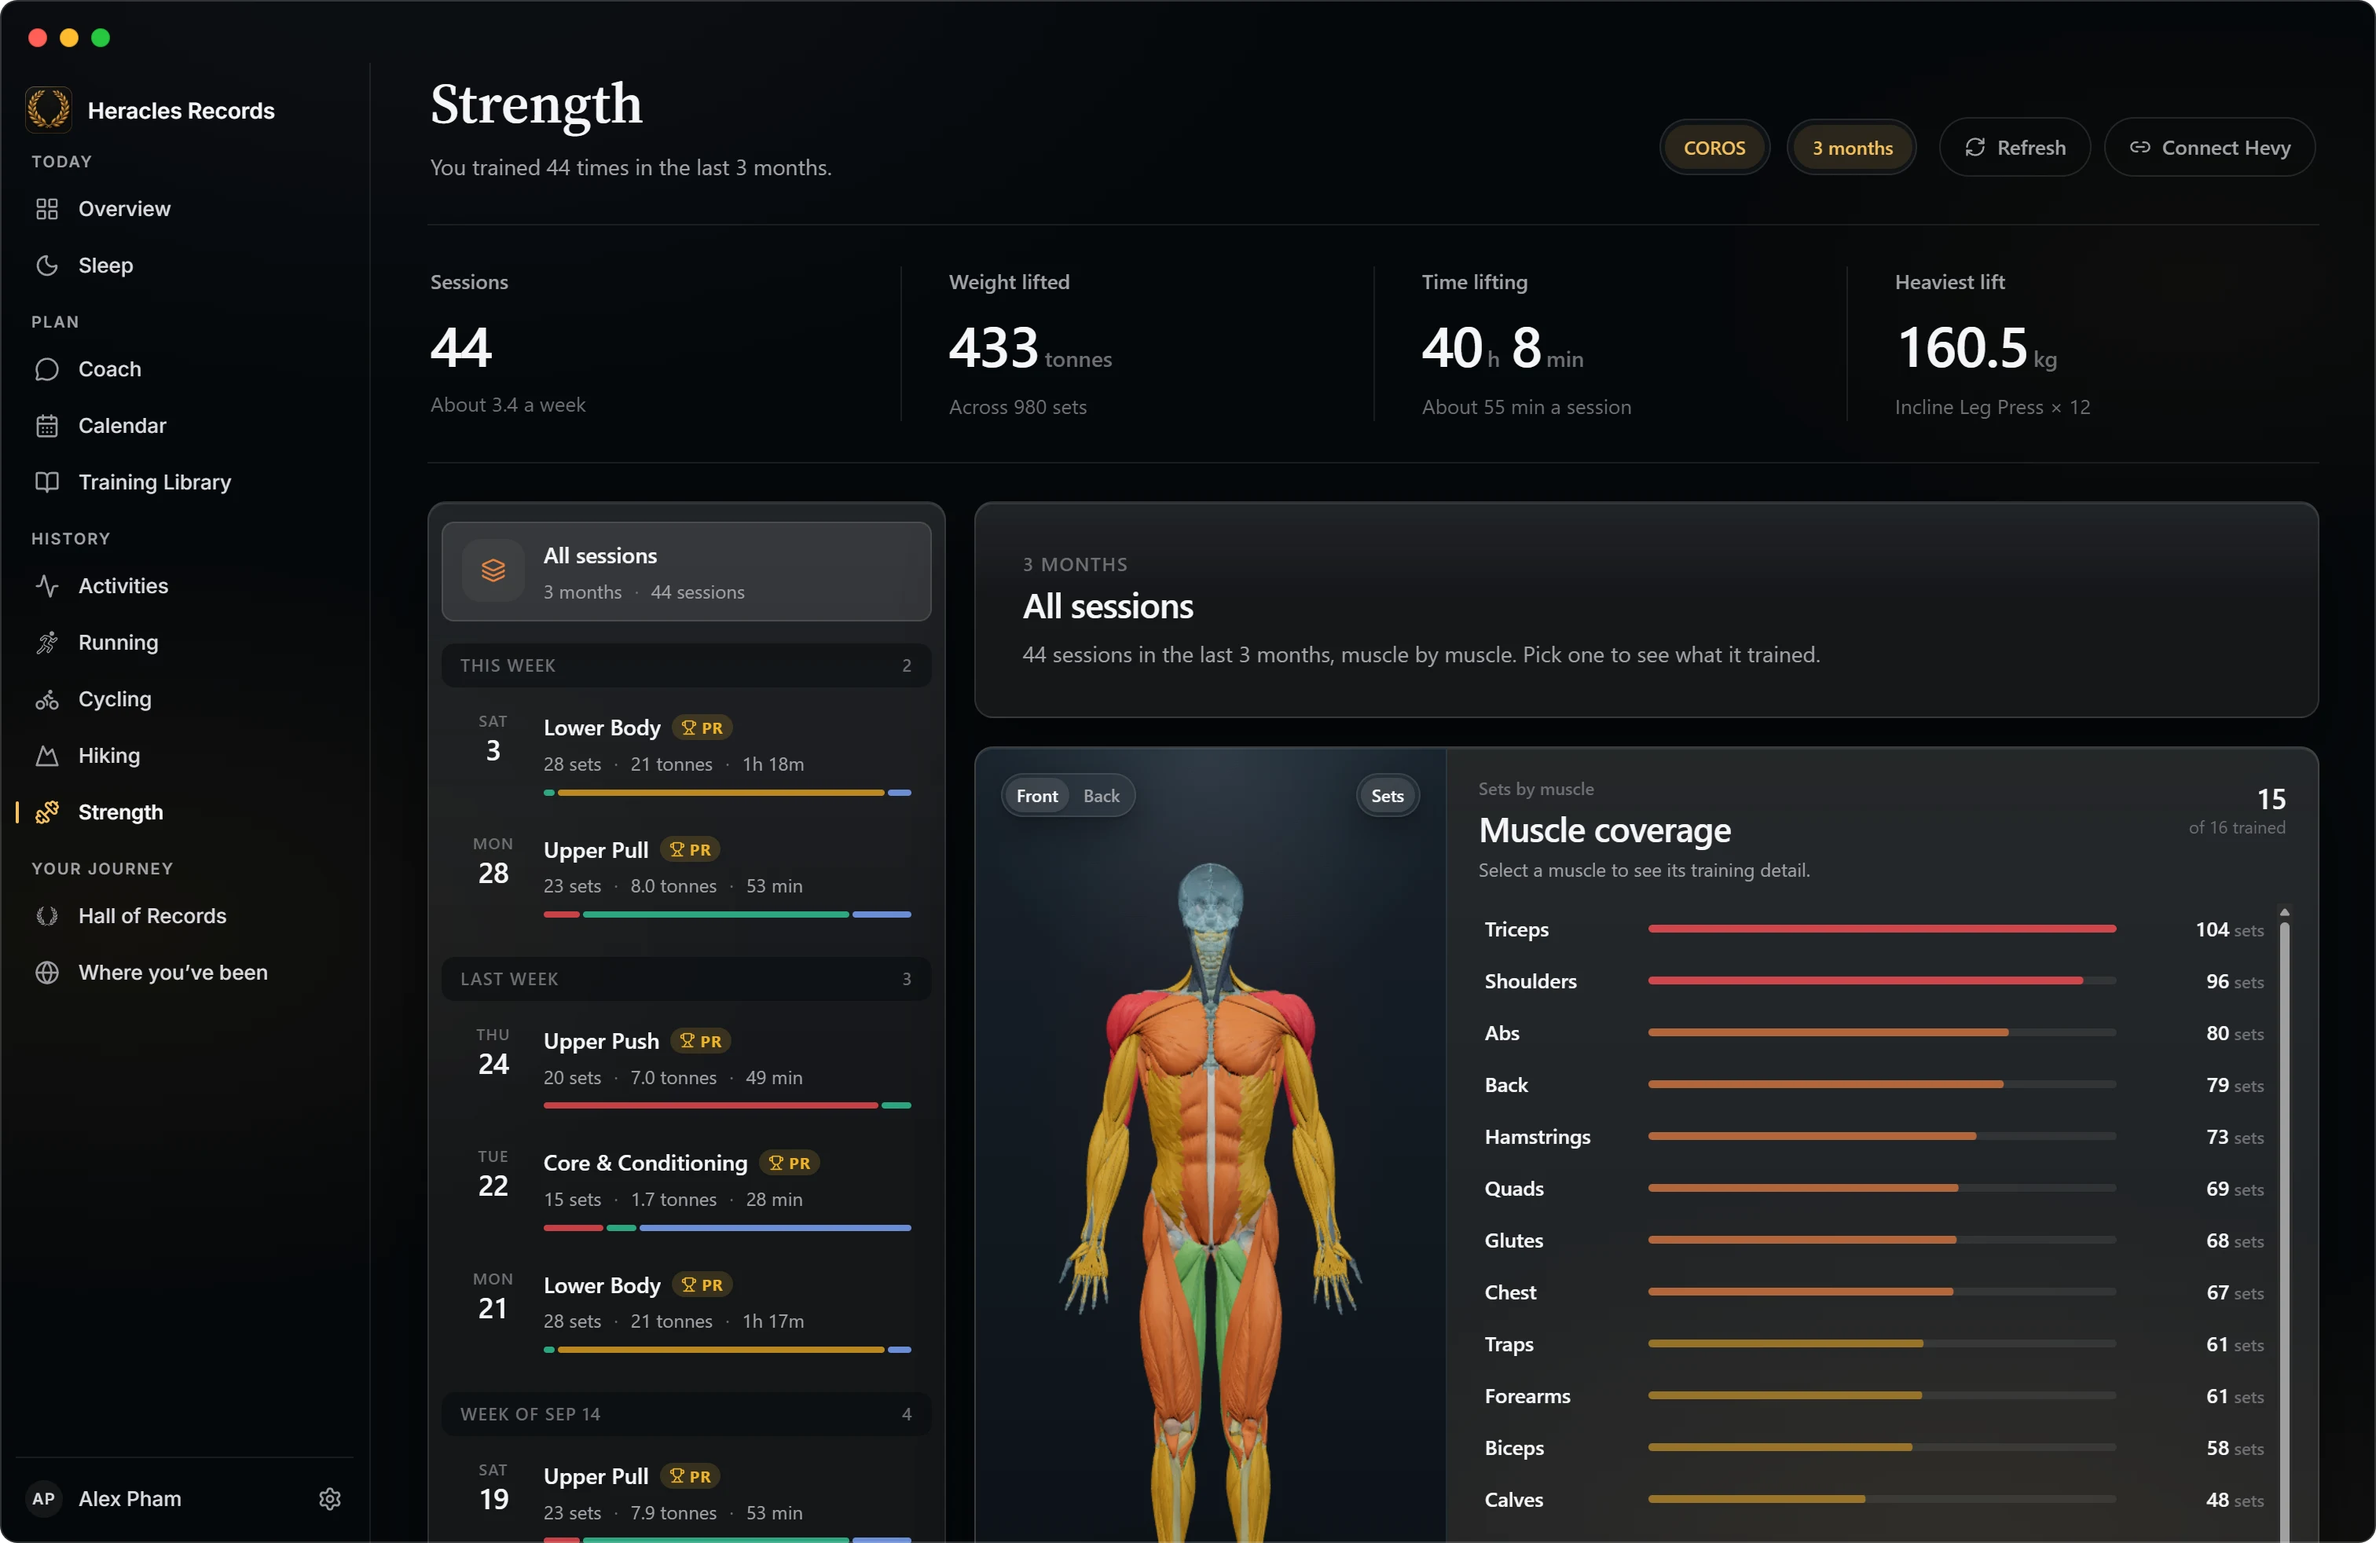
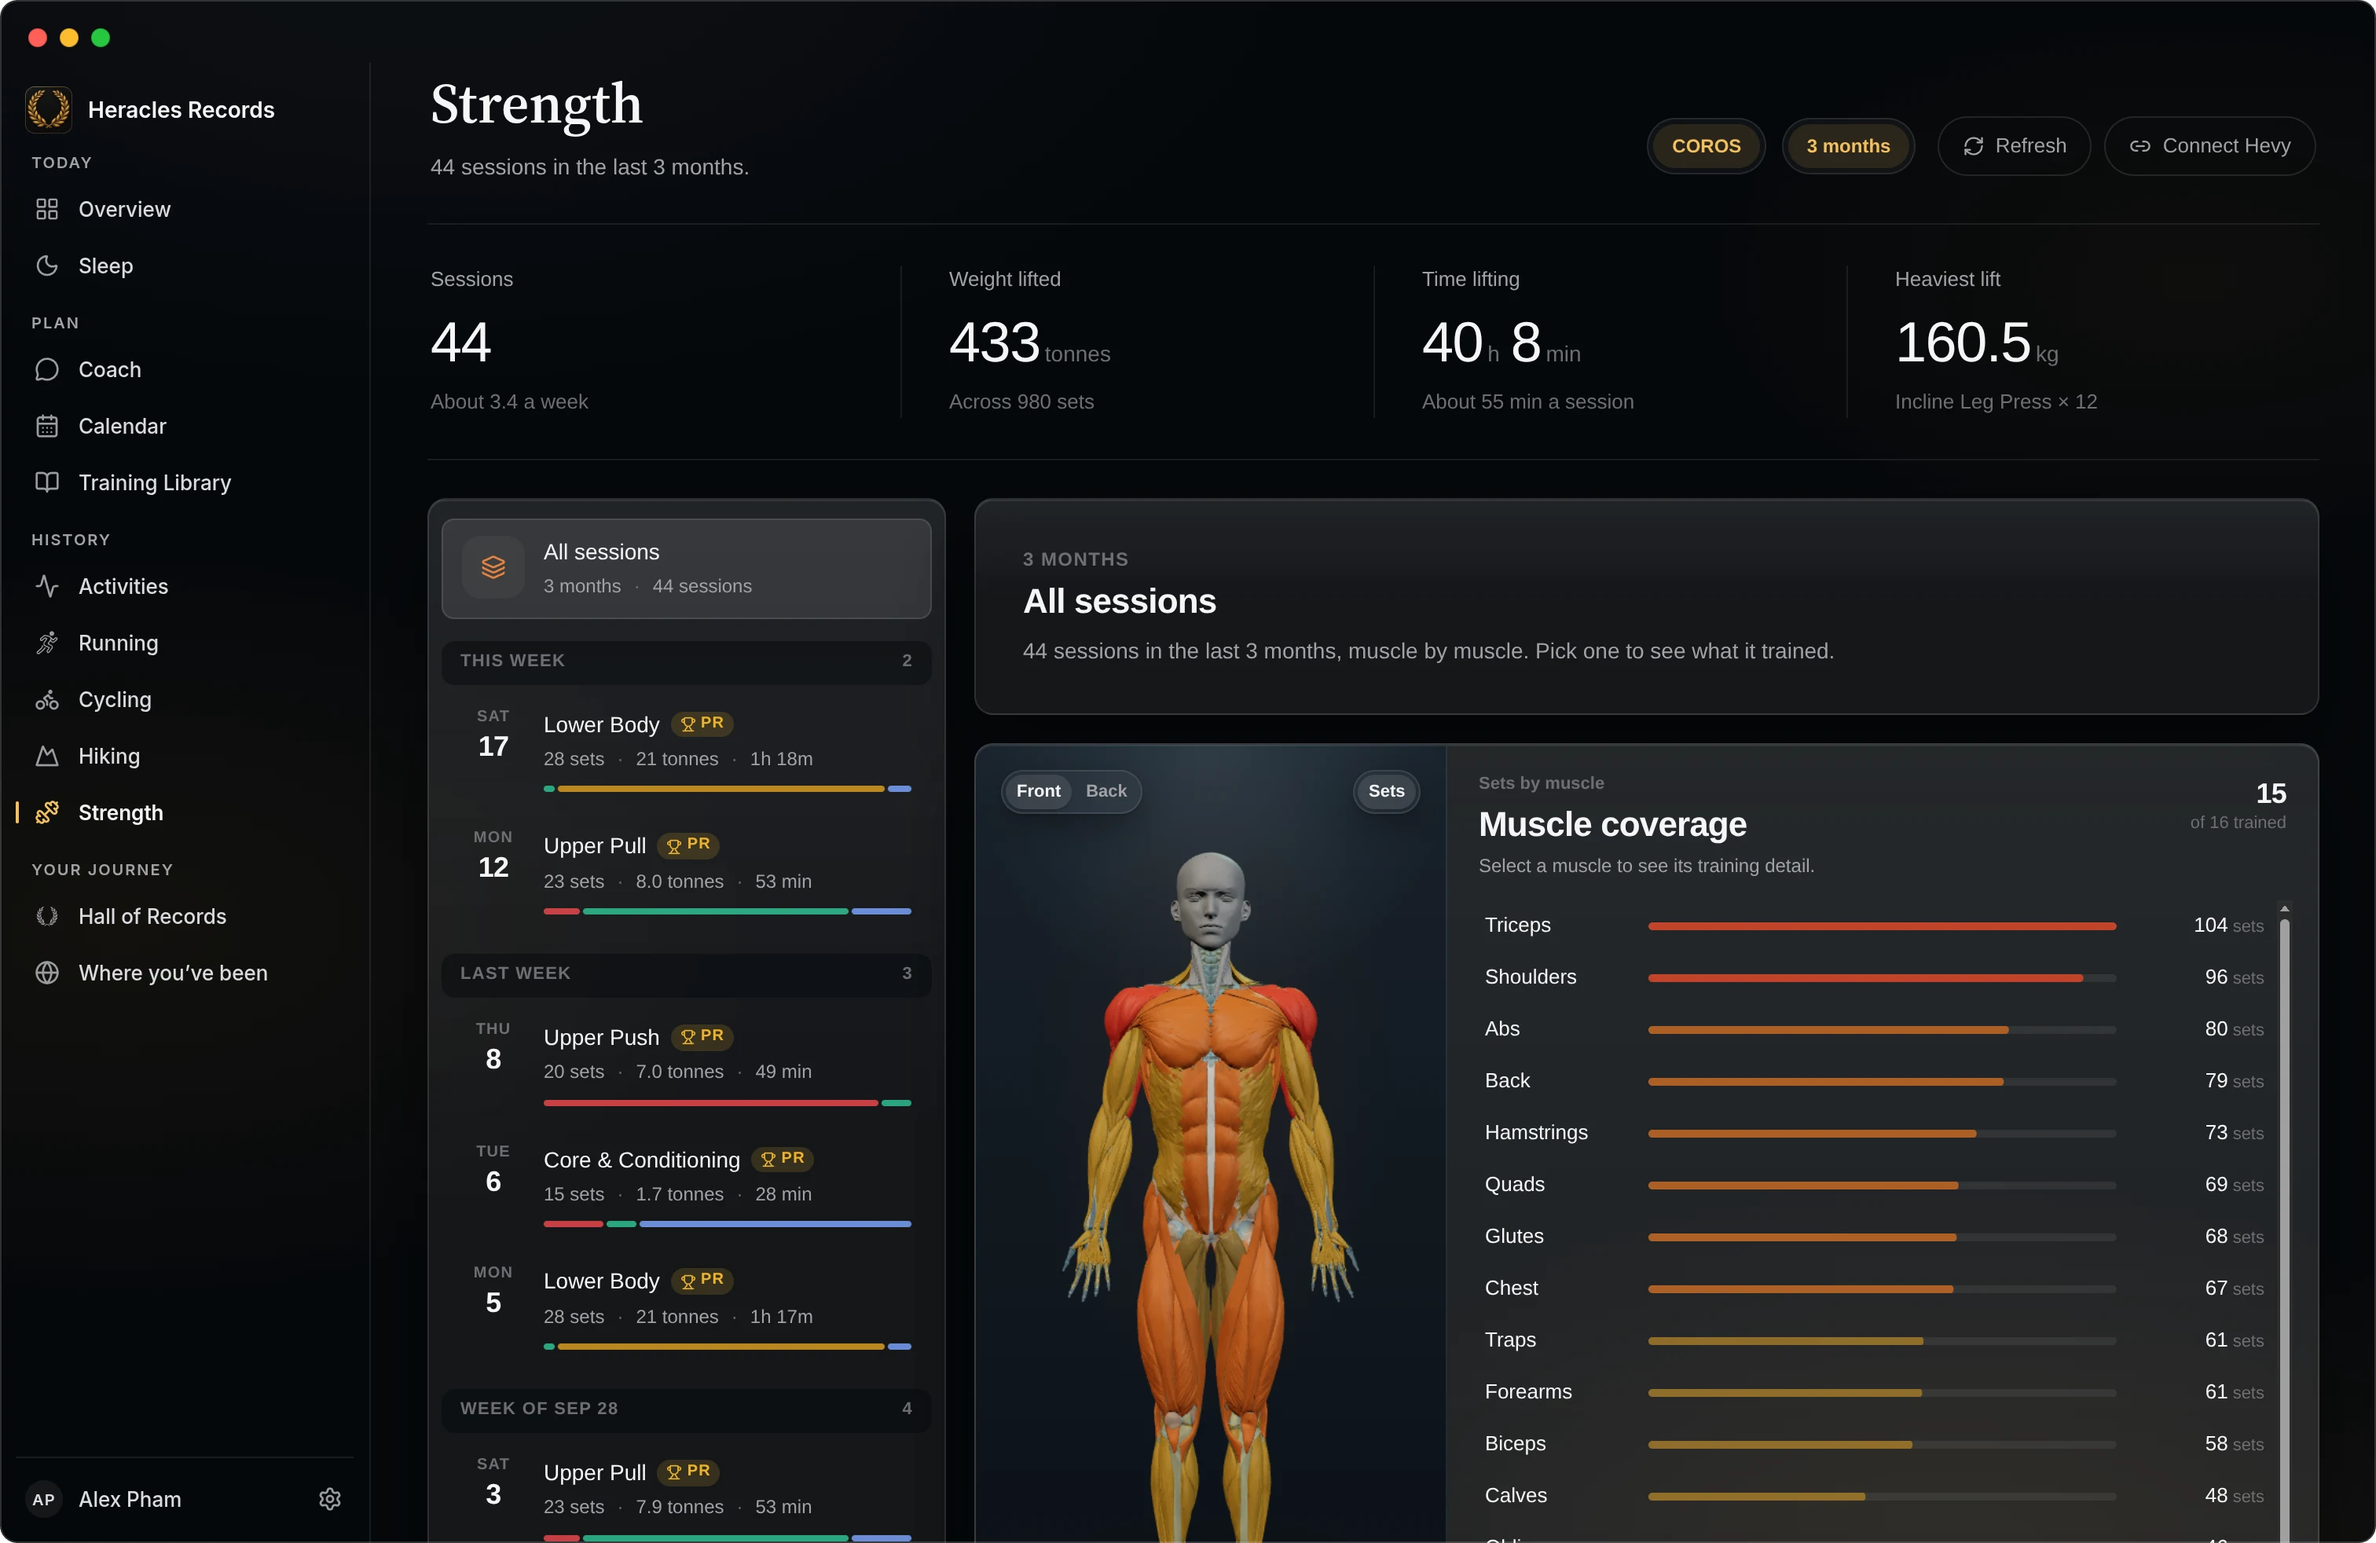
chore: release v1.1.2
Reshoots the screens that changed since 1.1.0 (Overview and the
appearance pair, Strength, Where you've been) and the home and download
link-preview cards that show them.

diff --git a/CHANGELOG.md b/CHANGELOG.md
@@ -7,9 +7,18 @@ and this project adheres to [Semantic Versioning](https://semver.org/spec/v2.0.0
 
 ## [Unreleased]
 
+## [1.1.2] - 2026-10-19
+
 ### What's new
 
-- **Strength** - the muscle figure follows the sex on your COROS profile: a gym-trained man, or a fit woman with her own proportions. A clay head now stands where the skull was, and the heat map runs in amber, from sand to ember, on a warmer light stage.
+- **Strength** - the muscle figure follows the sex on your COROS profile: a gym-trained man, or a fit woman with her own proportions, each with a face of their own. The heat map runs in amber, from sand to ember, and a muscle you point at stands out on the light theme too.
+- **Workout builder** - pick a muscle in the exercise picker and the movements that work it hardest come first, read from COROS's own catalogue.
+- **Where you've been** - every place on the globe is named, not only the six newest, and names that would overlap make room for each other.
+- **Activities** - a swim reads its pace per 100 m, and every sport reads the same on its screen as it does in Coach.
+
+### Fixed
+
+- Improve app performance and stability.
 
 ## [1.1.1] - 2026-10-12
 
